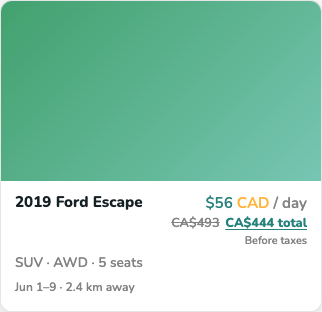
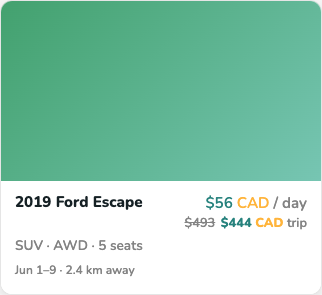
RYRA-442: Match trip line to daily rate ($N CAD trip).
Drop underline and Before taxes; use trip instead of total with the same CAD colour tokens as / day.

diff --git a/docs/ryra-442/preview.html b/docs/ryra-442/preview.html
@@ -94,6 +94,7 @@
         justify-content: flex-end;
         gap: 6px;
         margin-top: 2px;
+        align-items: baseline;
       }
       .rn-orig {
         color: rgb(142, 142, 142);
@@ -101,18 +102,21 @@
         font-weight: 600;
         text-decoration: line-through;
       }
-      .rn-now {
-        color: rgb(56, 141, 137);
+      .rn-trip {
         font-size: 12px;
         font-weight: 800;
-        text-decoration: underline;
+        white-space: nowrap;
       }
-      .rn-before {
-        color: rgb(142, 142, 142);
-        font-size: 10px;
+      .rn-trip .amt {
+        color: rgb(56, 141, 137);
+      }
+      .rn-trip .cad {
+        color: rgb(255, 187, 46);
         font-weight: 600;
-        text-align: right;
-        margin-top: 1px;
+      }
+      .rn-trip .unit {
+        color: rgb(142, 142, 142);
+        font-weight: 600;
       }
     </style>
   </head>
@@ -134,13 +138,16 @@
               </p>
               <div class="fyc-trip-price">
                 <p class="fyc-sr-only">
-                  Original price CA$493, now CA$444 total before taxes
+                  Original price $493 CAD, now $444 CAD trip
                 </p>
                 <p class="fyc-trip-total-row" aria-hidden="true">
-                  <span class="fyc-trip-original">CA$493</span>
-                  <span class="fyc-trip-now">CA$444 total</span>
+                  <span class="fyc-trip-original">$493</span>
+                  <span class="fyc-trip-now">
+                    <span class="fyc-price">$444</span>
+                    <span class="fyc-cad"> CAD</span>
+                    <span class="fyc-per-day"> trip</span>
+                  </span>
                 </p>
-                <p class="fyc-trip-before-taxes" aria-hidden="true">Before taxes</p>
               </div>
             </div>
           </div>
@@ -163,11 +170,14 @@
                 <span class="fyc-per-day"> / day</span>
               </p>
               <div class="fyc-trip-price">
-                <p class="fyc-sr-only">CA$62 total before taxes</p>
+                <p class="fyc-sr-only">$62 CAD trip</p>
                 <p class="fyc-trip-total-row" aria-hidden="true">
-                  <span class="fyc-trip-now">CA$62 total</span>
+                  <span class="fyc-trip-now">
+                    <span class="fyc-price">$62</span>
+                    <span class="fyc-cad"> CAD</span>
+                    <span class="fyc-per-day"> trip</span>
+                  </span>
                 </p>
-                <p class="fyc-trip-before-taxes" aria-hidden="true">Before taxes</p>
               </div>
             </div>
           </div>
@@ -177,7 +187,7 @@
       </article>
     </div>
 
-    <p class="label">iOS / React Native card styling (same numbers &amp; CA$ format)</p>
+    <p class="label">iOS / React Native card styling (same numbers &amp; $N CAD format)</p>
     <div class="row">
       <div class="rn-card" id="ios-discounted">
         <div class="fyc-car-img" style="background: linear-gradient(135deg,#5a7,#8cb)"></div>
@@ -190,10 +200,12 @@
                 ><span class="unit"> / day</span>
               </div>
               <div class="rn-trip-row">
-                <span class="rn-orig">CA$493</span>
-                <span class="rn-now">CA$444 total</span>
+                <span class="rn-orig">$493</span>
+                <span class="rn-trip">
+                  <span class="amt">$444</span><span class="cad"> CAD</span
+                  ><span class="unit"> trip</span>
+                </span>
               </div>
-              <div class="rn-before">Before taxes</div>
             </div>
           </div>
         </div>
@@ -209,9 +221,11 @@
                 ><span class="unit"> / day</span>
               </div>
               <div class="rn-trip-row">
-                <span class="rn-now">CA$62 total</span>
+                <span class="rn-trip">
+                  <span class="amt">$62</span><span class="cad"> CAD</span
+                  ><span class="unit"> trip</span>
+                </span>
               </div>
-              <div class="rn-before">Before taxes</div>
             </div>
           </div>
         </div>

diff --git a/components/ListingCard.js b/components/ListingCard.js
@@ -72,8 +72,8 @@ export default function ListingCard({
     tripTotal == null
       ? undefined
       : tripTotal.hasDiscount
-        ? `Original price ${formatCadDollars(tripTotal.originalTotal)}, now ${formatCadDollars(tripTotal.total)} total before taxes`
-        : `${formatCadDollars(tripTotal.total)} total before taxes`;
+        ? `Original price ${formatCadDollars(tripTotal.originalTotal)} CAD, now ${formatCadDollars(tripTotal.total)} CAD trip`
+        : `${formatCadDollars(tripTotal.total)} CAD trip`;
   const dateRange = formatCardDateRange(bookingDates);
   const distance =
     distanceKmProp != null
@@ -162,12 +162,13 @@ export default function ListingCard({
                     </Text>
                   ) : null}
                   <Text style={styles.tripNow} importantForAccessibility="no">
-                    {formatCadDollars(tripTotal.total)} total
+                    <Text style={styles.tripNowAmount}>
+                      {formatCadDollars(tripTotal.total)}
+                    </Text>
+                    <Text style={styles.tripNowCurrency}> CAD</Text>
+                    <Text style={styles.tripNowUnit}> trip</Text>
                   </Text>
                 </View>
-                <Text style={styles.tripBeforeTaxes} importantForAccessibility="no">
-                  Before taxes
-                </Text>
               </View>
             ) : null}
           </View>
@@ -348,15 +349,21 @@ const styles = StyleSheet.create({
   tripNow: {
     fontFamily: FONTS.NUNITO_BOLD,
     fontSize: 12,
-    color: 'rgb(56,141,137)',
-    textDecorationLine: 'underline',
   },
-  tripBeforeTaxes: {
+  tripNowAmount: {
+    fontFamily: FONTS.NUNITO_BOLD,
+    fontSize: 12,
+    color: 'rgb(56,141,137)',
+  },
+  tripNowCurrency: {
     fontFamily: FONTS.NUNITO_SEMIBOLD,
-    fontSize: 10,
+    fontSize: 12,
+    color: COLORS.MANGO_TWO,
+  },
+  tripNowUnit: {
+    fontFamily: FONTS.NUNITO_SEMIBOLD,
+    fontSize: 12,
     color: 'rgb(142,142,142)',
-    marginTop: 1,
-    textAlign: 'right',
   },
   footerLine: {
     fontFamily: FONTS.NUNITO_SEMIBOLD,

diff --git a/apps/web/src/pages/FindYourCarPage.tsx b/apps/web/src/pages/FindYourCarPage.tsx
@@ -1500,8 +1500,8 @@ export default function FindYourCarPage() {
                             <div className="fyc-trip-price">
                               <p className="fyc-sr-only">
                                 {tripTotal.hasDiscount
-                                  ? `Original price ${formatCadDollars(tripTotal.originalTotal)}, now ${formatCadDollars(tripTotal.total)} total before taxes`
-                                  : `${formatCadDollars(tripTotal.total)} total before taxes`}
+                                  ? `Original price ${formatCadDollars(tripTotal.originalTotal)} CAD, now ${formatCadDollars(tripTotal.total)} CAD trip`
+                                  : `${formatCadDollars(tripTotal.total)} CAD trip`}
                               </p>
                               <p className="fyc-trip-total-row" aria-hidden="true">
                                 {tripTotal.hasDiscount ? (
@@ -1510,11 +1510,12 @@ export default function FindYourCarPage() {
                                   </span>
                                 ) : null}
                                 <span className="fyc-trip-now">
-                                  {formatCadDollars(tripTotal.total)} total
+                                  <span className="fyc-price">
+                                    {formatCadDollars(tripTotal.total)}
+                                  </span>
+                                  <span className="fyc-cad"> CAD</span>
+                                  <span className="fyc-per-day"> trip</span>
                                 </span>
-                              </p>
-                              <p className="fyc-trip-before-taxes" aria-hidden="true">
-                                Before taxes
                               </p>
                             </div>
                           ) : null}

diff --git a/utils/listingCardMeta.js b/utils/listingCardMeta.js
@@ -112,11 +112,11 @@ function parseDiscountPercent(raw) {
   return Number.isFinite(n) && n > 0 ? n : 0;
 }
 
-/** CA$ + whole dollars with thousands separators (CA$1,030). */
+/** Whole dollars with $ and thousands separators ($1,030) — same style as daily rate. */
 export function formatCadDollars(amount) {
   const n = Math.round(Number(amount));
-  if (!Number.isFinite(n)) return 'CA$0';
-  return `CA$${n.toLocaleString('en-US')}`;
+  if (!Number.isFinite(n)) return '$0';
+  return `$${n.toLocaleString('en-US')}`;
 }
 
 /**

diff --git a/apps/web/src/utils/listingCardMeta.ts b/apps/web/src/utils/listingCardMeta.ts
@@ -171,11 +171,11 @@ export type ListingTripTotal = {
   hasDiscount: boolean;
 };
 
-/** CA$ + whole dollars with thousands separators (CA$1,030). */
+/** Whole dollars with $ and thousands separators ($1,030) — same style as daily rate. */
 export function formatCadDollars(amount: number): string {
   const n = Math.round(Number(amount));
-  if (!Number.isFinite(n)) return 'CA$0';
-  return `CA$${n.toLocaleString('en-US')}`;
+  if (!Number.isFinite(n)) return '$0';
+  return `$${n.toLocaleString('en-US')}`;
 }
 
 /**

diff --git a/apps/web/src/styles/fyc.css b/apps/web/src/styles/fyc.css
@@ -991,18 +991,8 @@
 }
 
 .fyc-trip-now {
-  color: #388d89;
   font-weight: 800;
-  text-decoration: underline;
-  text-underline-offset: 0.12em;
-}
-
-.fyc-trip-before-taxes {
-  margin: 0.1rem 0 0;
-  font-family: 'Nunito', sans-serif;
-  font-size: 0.68rem;
-  font-weight: 600;
-  color: #8e8e8e;
+  white-space: nowrap;
 }
 
 .fyc-sr-only {

diff --git a/shared/listingCardTripPricing.cases.js b/shared/listingCardTripPricing.cases.js
@@ -58,8 +58,8 @@ module.exports = {
     },
   ],
   formatCases: [
-    { amount: 1030, expected: 'CA$1,030' },
-    { amount: 62, expected: 'CA$62' },
-    { amount: 444, expected: 'CA$444' },
+    { amount: 1030, expected: '$1,030' },
+    { amount: 62, expected: '$62' },
+    { amount: 444, expected: '$444' },
   ],
 };

diff --git a/docs/ryra-442/README.md b/docs/ryra-442/README.md
@@ -2,6 +2,8 @@
 
 Preview markup: [preview.html](./preview.html) (uses production FYC CSS + RN-equivalent styles).
 
+Discounted: struck-through `$493` then `$444 CAD trip` (same color tokens as daily rate). No underline, no “Before taxes”.
+
 | | Discounted (8-day Ford $56 / 10% weekly) | No discount (1-day) |
 |---|---|---|
 | Web | ![web discounted](./ryra-442-web-discounted.png) | ![web plain](./ryra-442-web-plain.png) |
